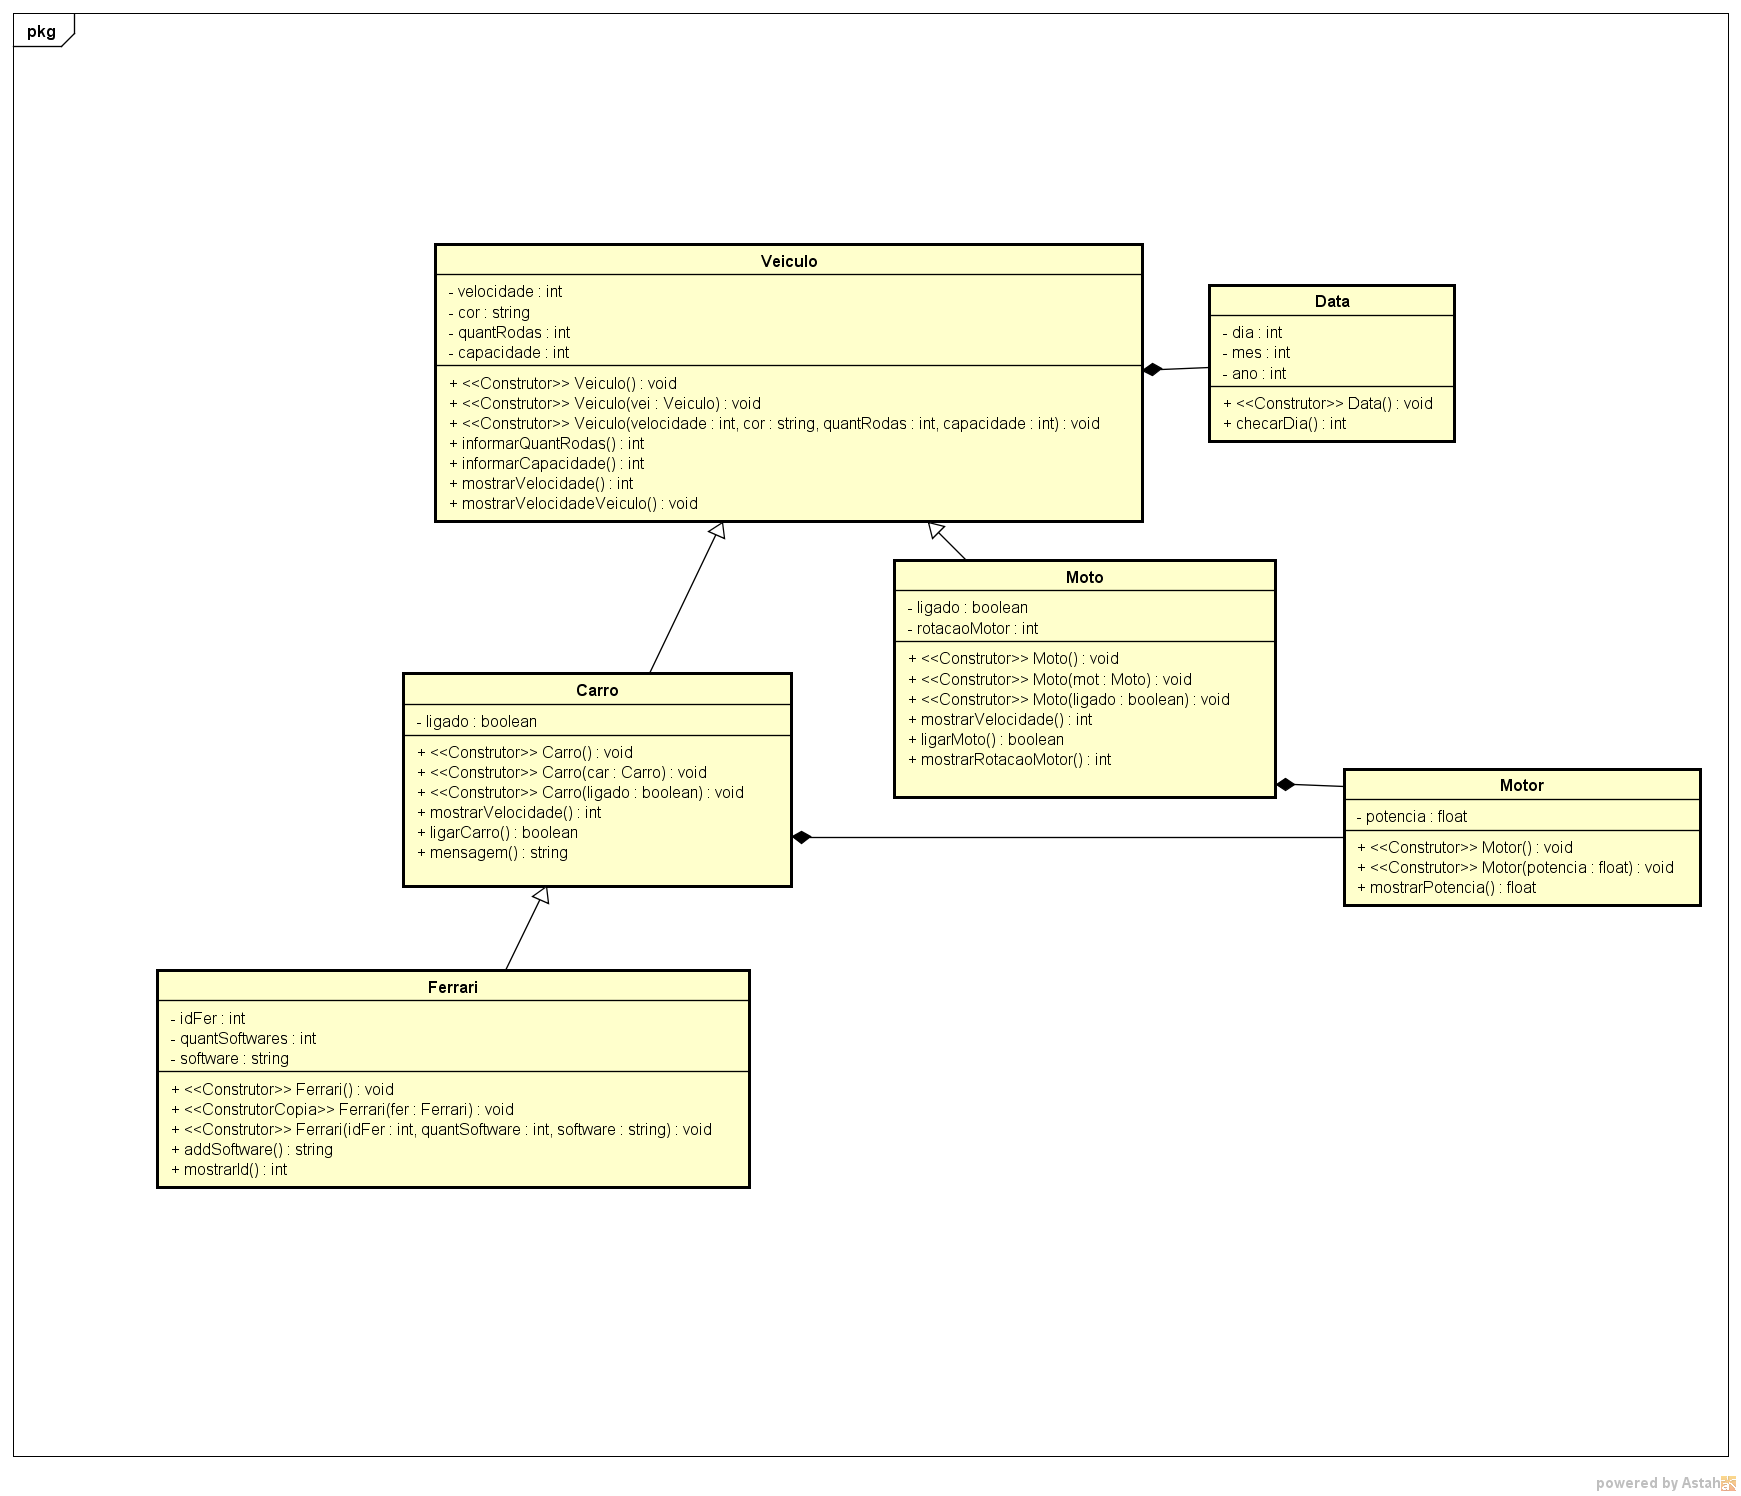
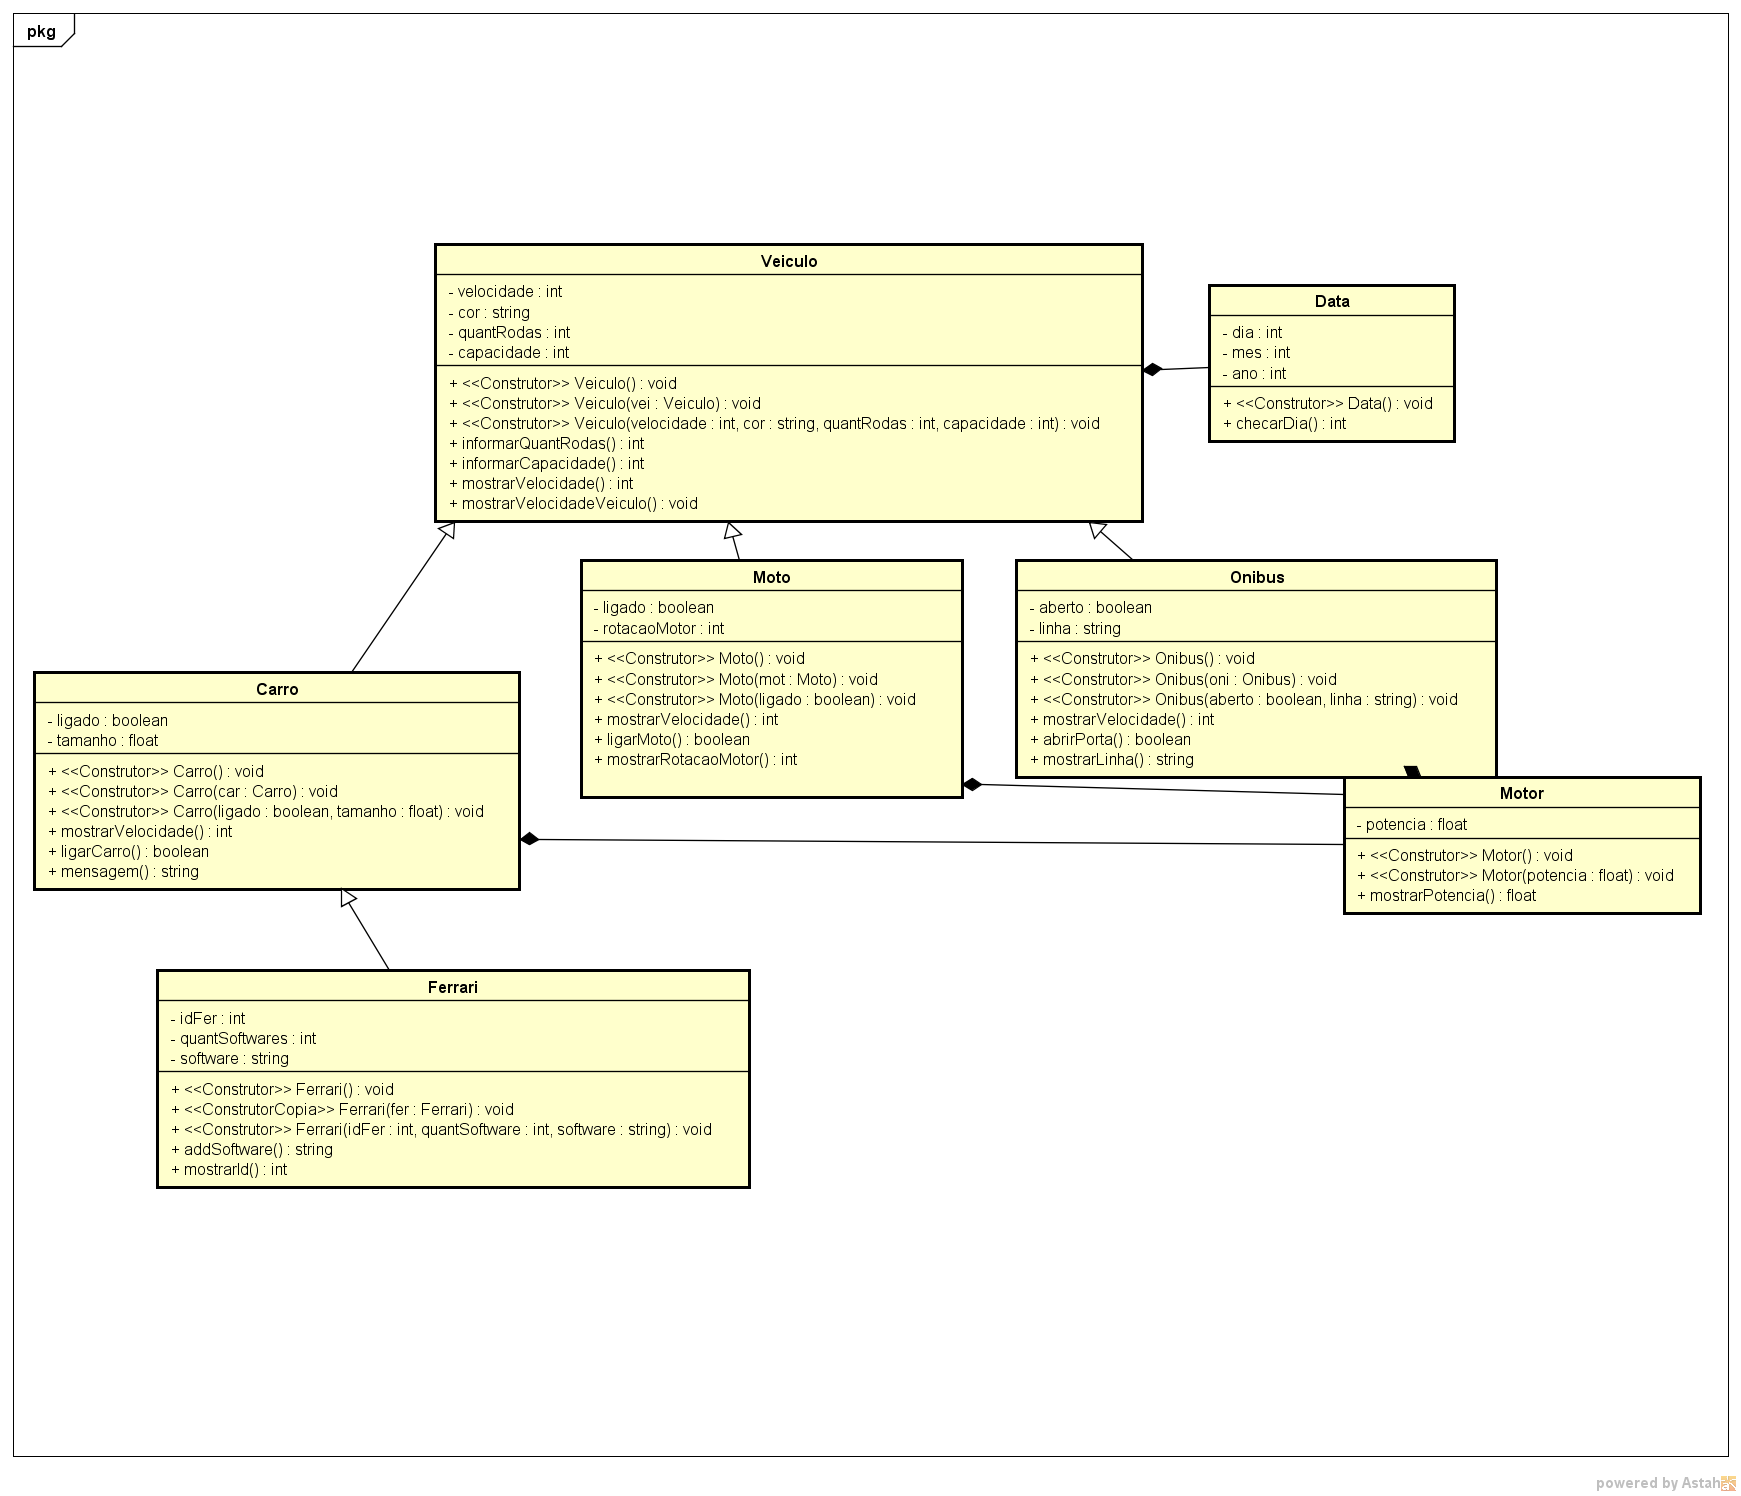
polimorfismo parte 2.

Changed region(s): [[0.0, 0.3382, 0.9925, 0.615]]

diff --git a/Carro.cpp b/Carro.cpp
@@ -7,17 +7,20 @@ using std::iostream;
 using std::string;
 
 Carro::Carro(){
-	this->ligado = true;
+	this->ligado = false;
+	this->tamanho = 0;
 }
 
 Carro::Carro(const Carro &c)
 :Veiculo(static_cast< Veiculo >(Veiculo)){
 	this->ligado = c.ligado;
+	this->tamanho = c.tamanho;
 }
 
-Carro::Carro(bool)
+Carro::Carro(bool, const string &)
 :Veiculo(velocidade, cor, quantRodas, capacidade){
 	this->ligado = ligado;
+	this->tamanho = tamanho;
 }
 
 Carro::~Carro(){
@@ -28,26 +31,33 @@ void Carro::mostrarVelocidade() const{
 }
 
 void Carro::ligarCarro() const{
-	cout << "Status: " << ligado << '\n';
+	cout << "O carro será ligado." << '\n';
+	this->ligado = true;
 }
 
 void Carro::mensagem() const{
-    cout << "Meu carro está a " << velocidade << " km/h e sua cor é " << cor << '\n';
+    cout << "Meu carro está a " << carro.velocidade 
+		<< " km/h, sua cor é " << carro.cor 
+		<< " e seu tamanho " << carro.tamanho << '\n';
 }
 
 ostream &operator << (ostream &output, const Carro &carro){       //sobrecarga de operadores <<
     output 	<< static_cast< Veiculo > (veiculo)
-			<< " | Ligado: " << carro.ligado << '\n';
+			<< " | Ligado: " << carro.ligado 
+			<< " | Tamanho: " << carro.tamanho << '\n';
 }
 
 const Carro &Carro::operator = (const Carro &carro){       //sobrecarga de operadores =
     this->ligado = carro.ligado;
+	this->tamanho = carro.tamanho;
     
     static_cast< Veiculo >(*this) = static_cast< Veiculo > (carro);
 }
 
 bool Carro::operator== (const Carro &carro) const{
 	if (this->ligado == carro.ligado)
+		return false;
+	if (this->tamanho == carro.tamanho)
 		return false;
 	if (static_cast< Veiculo >(*this) != static_cast< Veiculo > (carro))	
 		return false;

diff --git a/Onibus.cpp b/Onibus.cpp
@@ -1,0 +1,37 @@
+#include "Onibus.h"
+#include <iostream>
+#include "Carro.h"
+#include "Veiculo.h"
+#include "Veiculo.cpp"
+using std::cout;
+using std::iostream;
+using std::string;
+
+Onibus::Onibus(){
+	this->aberto = false;
+	this->linha = "";
+}
+
+Onibus::Onibus(const Onibus &o)
+:Veiculo(static_cast< Veiculo >(Veiculo)){
+	this->aberto = o.aberto;
+	this->linha = o.linha;
+}
+	
+Carro::Carro(bool, const string &)
+:Veiculo(velocidade, cor, quantRodas, capacidade){
+	this->aberto = aberto;
+	this->linha = linha;
+}
+
+Onibus::~Onibus(){
+}
+
+void abrirPorta::Onibus() const{
+	cout << "A porta será aberta." << '\n';
+	this->aberto = true;
+}
+
+void mostrarLinha::Onibus() const{
+	cout << "Esse ônibus é da linha: " << onibus.linha << '\n';
+}

diff --git a/Onibus.h b/Onibus.h
@@ -1,0 +1,42 @@
+#ifndef ONIBUS_H
+#define ONIBUS_H
+#include <string>
+#include <ostream>
+#include "Motor.h"
+#include "Data.h"
+#include "Veiculo.h"
+#include "Veiculo.cpp"
+using std::string;
+using std::ostream;
+
+class Onibus : public Veiculo{
+	
+	friend ostream &operator << (ostream &, const Onibus &);
+	
+public:
+
+	Onibus();
+	Onibus(const Onibus &);
+	Onibus(bool, const string &);
+	virtual ~Onibus();
+	
+	void mostrarVelocidade() const;
+	void abrirPorta() const;
+	void mostrarLinha() const;
+	
+	const Onibus &operator = (const Onibus &);
+	bool operator== (const Onibus &) const;
+	bool operator!= (const Onibus &onibus) const
+	{
+		return ! (*this == onibus);
+	}
+
+private:
+	
+	bool aberto;
+	string linha;
+
+
+};
+
+#endif // ONIBUS_H

diff --git a/Moto.cpp b/Moto.cpp
@@ -9,7 +9,7 @@ using std::ostream;
 
 
 Moto::Moto(){
-	this->ligado = true;
+	this->ligado = false;
 	this->rotacaoMotor = 0;
 }
 
@@ -33,11 +33,12 @@ void Moto::mostrarVelocidade() const{
 }
 
 void Moto::ligarMoto() const{
-	cout << "Status: " << ligado << '\n';
+	cout << "A moto será ligada." << '\n';
+	this->ligado = true;
 }
 
 void Moto::mostrarRotacaoMotor() const{
-	cout << "Rotação: " << rotacaoMotor << '\n';
+	cout << "Rotação: " << moto.rotacaoMotor << '\n';
 }
 
 ostream &operator << (ostream &output, const Moto &moto){       //sobrecarga de operadores <<

diff --git a/main.cpp b/main.cpp
@@ -7,6 +7,7 @@
 #include "Motor.h"
 #include "Carro.h"
 #include "Moto.h"
+#include "Onibus.h"
 using std::cout;
 using std::string;
 using std::vector;
@@ -50,7 +51,7 @@ int main(int velocidade, const string &mensagem, const string &cor){
 		Carro *derivedPtr = dynamic_cast<Carro*> (veiculos[i]);
         if (derivedPtr != 0){
 			Veiculo.ligado(*derivedPtr, false);
-			cout << "O veículo está sendo desligado!\n";                         
+			cout << "O veículo está sendo desligado!\n";                      
 		}
 	}
     return 0;

diff --git a/Carro.h b/Carro.h
@@ -17,10 +17,10 @@ public:
 
 	Carro();
 	Carro(const Carro &);
-	Carro(bool);
+	Carro(bool, float);
 	virtual ~Carro();
 	
-	virtual void mostrarVelocidade() const;
+	void mostrarVelocidade() const;
 	void ligarCarro() const;
 	void mensagem() const;
 	
@@ -35,6 +35,7 @@ public:
 private:
 
     bool ligado;
+	float tamanho;
 };
 
 #endif // CARRO_H

diff --git a/Moto.h b/Moto.h
@@ -19,7 +19,7 @@ public:
 	Moto(bool, int);
 	virtual ~Moto();
 	
-	virtual void mostrarVelocidade();
+	void mostrarVelocidade();
 	void ligarMoto();
 	void mostrarRotacaoMotor();
 	
